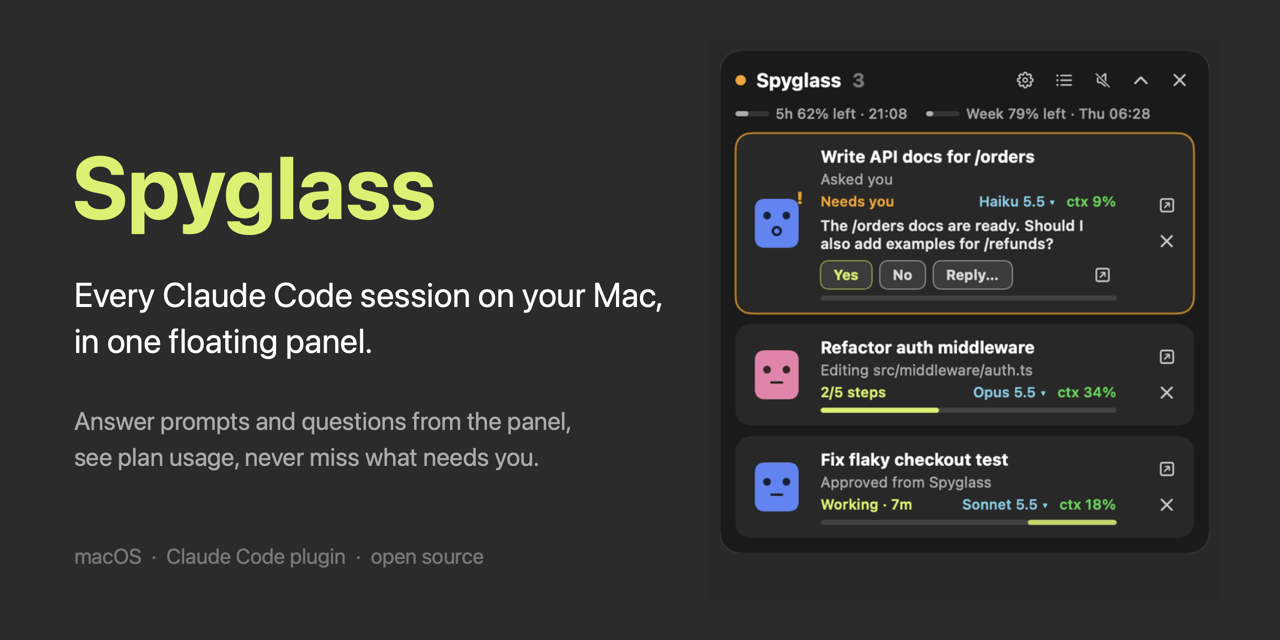
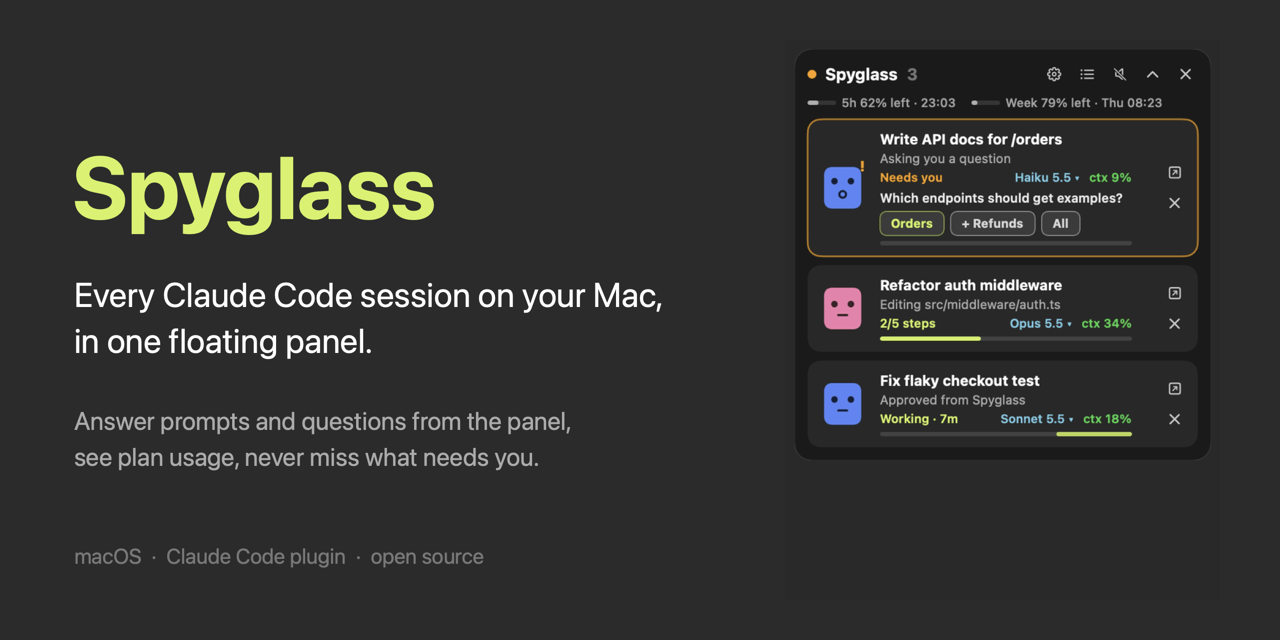
Refresh the demo GIF and link card with the current panel
Shows option questions, model switch confirm, Resume for ended sessions and answering in place from the collapsed view.

diff --git a/README.md b/README.md
@@ -6,7 +6,7 @@
 
 Running several Claude Code sessions at once? Spyglass keeps a small always-on-top panel with one row per session: what it's doing right now, which ones need you, how much of your plan you've used. You can answer most prompts from the panel itself, and jump to the exact terminal tab for the rest.
 
-<p align="center"><img src="demo/spyglass-demo.gif" alt="Spyglass: sessions working, a permission prompt allowed from the panel, a question answered with Yes / No, a finished session, a context warning, the compact view, and the collapsed view showing what just finished" width="560"></p>
+<p align="center"><img src="demo/spyglass-demo.gif" alt="Spyglass: sessions working, a permission prompt allowed from the panel, a question answered by picking an option, a model switch with a confirm, a finished session, a context warning, an ended session with Resume, the compact view, and the collapsed view where a waiting question is answered in place" width="560"></p>
 
 ## What it shows
 
